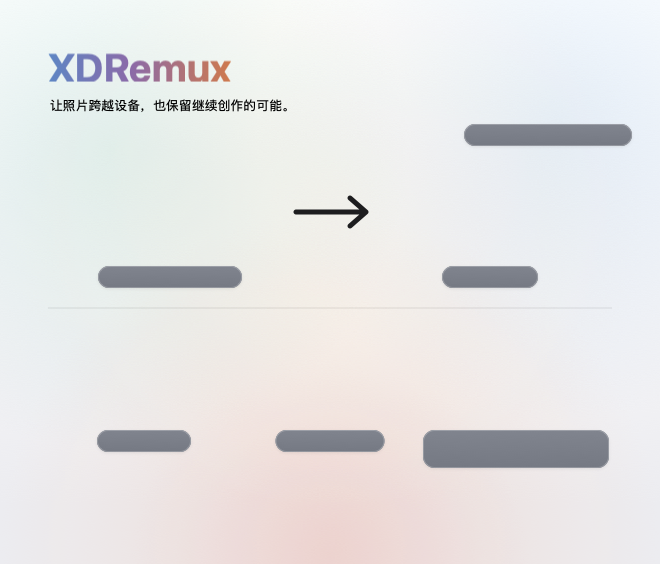
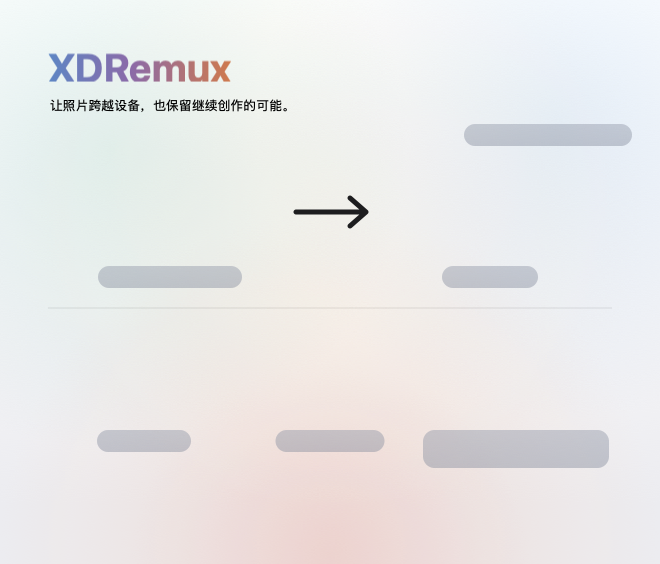
fix(macos): soften DMG label pills to translucent mist gray

diff --git a/tools/apple/dmg/gen_background.swift b/tools/apple/dmg/gen_background.swift
@@ -46,10 +46,11 @@ let oneLinePillHeight = 22.0
 let twoLinePillHeight = 38.0
 let wrapThreshold = 165.0
 
-// Cool slate capsule gradient: maintains ~4.0:1 against white labels (Dark Mode)
-// and >5:1 against near-black labels (Light Mode).
-let pillTopColor = "80848e"
-let pillBottomColor = "757983"
+// Light translucent mist-slate gradient (no hard border): airy in Light Mode
+// while keeping white Dark Mode Finder labels readable.
+let pillTopColor = "8f96a6"
+let pillBottomColor = "848b9c"
+let pillAlpha: CGFloat = 0.44
 
 // Site palette, light theme (xdremux.app CSS variables).
 let fg = "1d1d1f", fgDim = "6e6e73", teal = "0a8a76", blue = "0066cc"
@@ -197,32 +198,16 @@ func drawLabelPill(_ ctx: CGContext, centerX: CGFloat, top: CGFloat, label: Stri
     let rect = CGRect(x: centerX - pillW / 2.0, y: top, width: pillW, height: pillH)
     let path = CGPath(roundedRect: rect, cornerWidth: radius, cornerHeight: radius, transform: nil)
 
-    // Subtle soft ambient drop shadow.
-    ctx.saveGState()
-    ctx.setShadow(offset: CGSize(width: 0, height: -1), blur: 3, color: color("000000", 0.08))
-    ctx.addPath(path)
-    ctx.setFillColor(color(pillTopColor))
-    ctx.fillPath()
-    ctx.restoreGState()
-
-    // Crisp cool-slate vertical gradient fill.
+    // Borderless translucent mist gradient fill so pills sit softly over the glows.
     ctx.saveGState()
     ctx.addPath(path)
     ctx.clip()
     let g = CGGradient(
         colorsSpace: sRGB,
-        colors: [color(pillTopColor), color(pillBottomColor)] as CFArray,
+        colors: [color(pillTopColor, pillAlpha), color(pillBottomColor, pillAlpha)] as CFArray,
         locations: [0, 1]
     )!
     ctx.drawLinearGradient(g, start: CGPoint(x: rect.midX, y: rect.minY), end: CGPoint(x: rect.midX, y: rect.maxY), options: [])
-    ctx.restoreGState()
-
-    // Hairline highlight rim.
-    ctx.saveGState()
-    ctx.addPath(CGPath(roundedRect: rect.insetBy(dx: 0.5, dy: 0.5), cornerWidth: max(1, radius - 0.5), cornerHeight: max(1, radius - 0.5), transform: nil))
-    ctx.setStrokeColor(color("ffffff", 0.22))
-    ctx.setLineWidth(1.0)
-    ctx.strokePath()
     ctx.restoreGState()
 }
 
